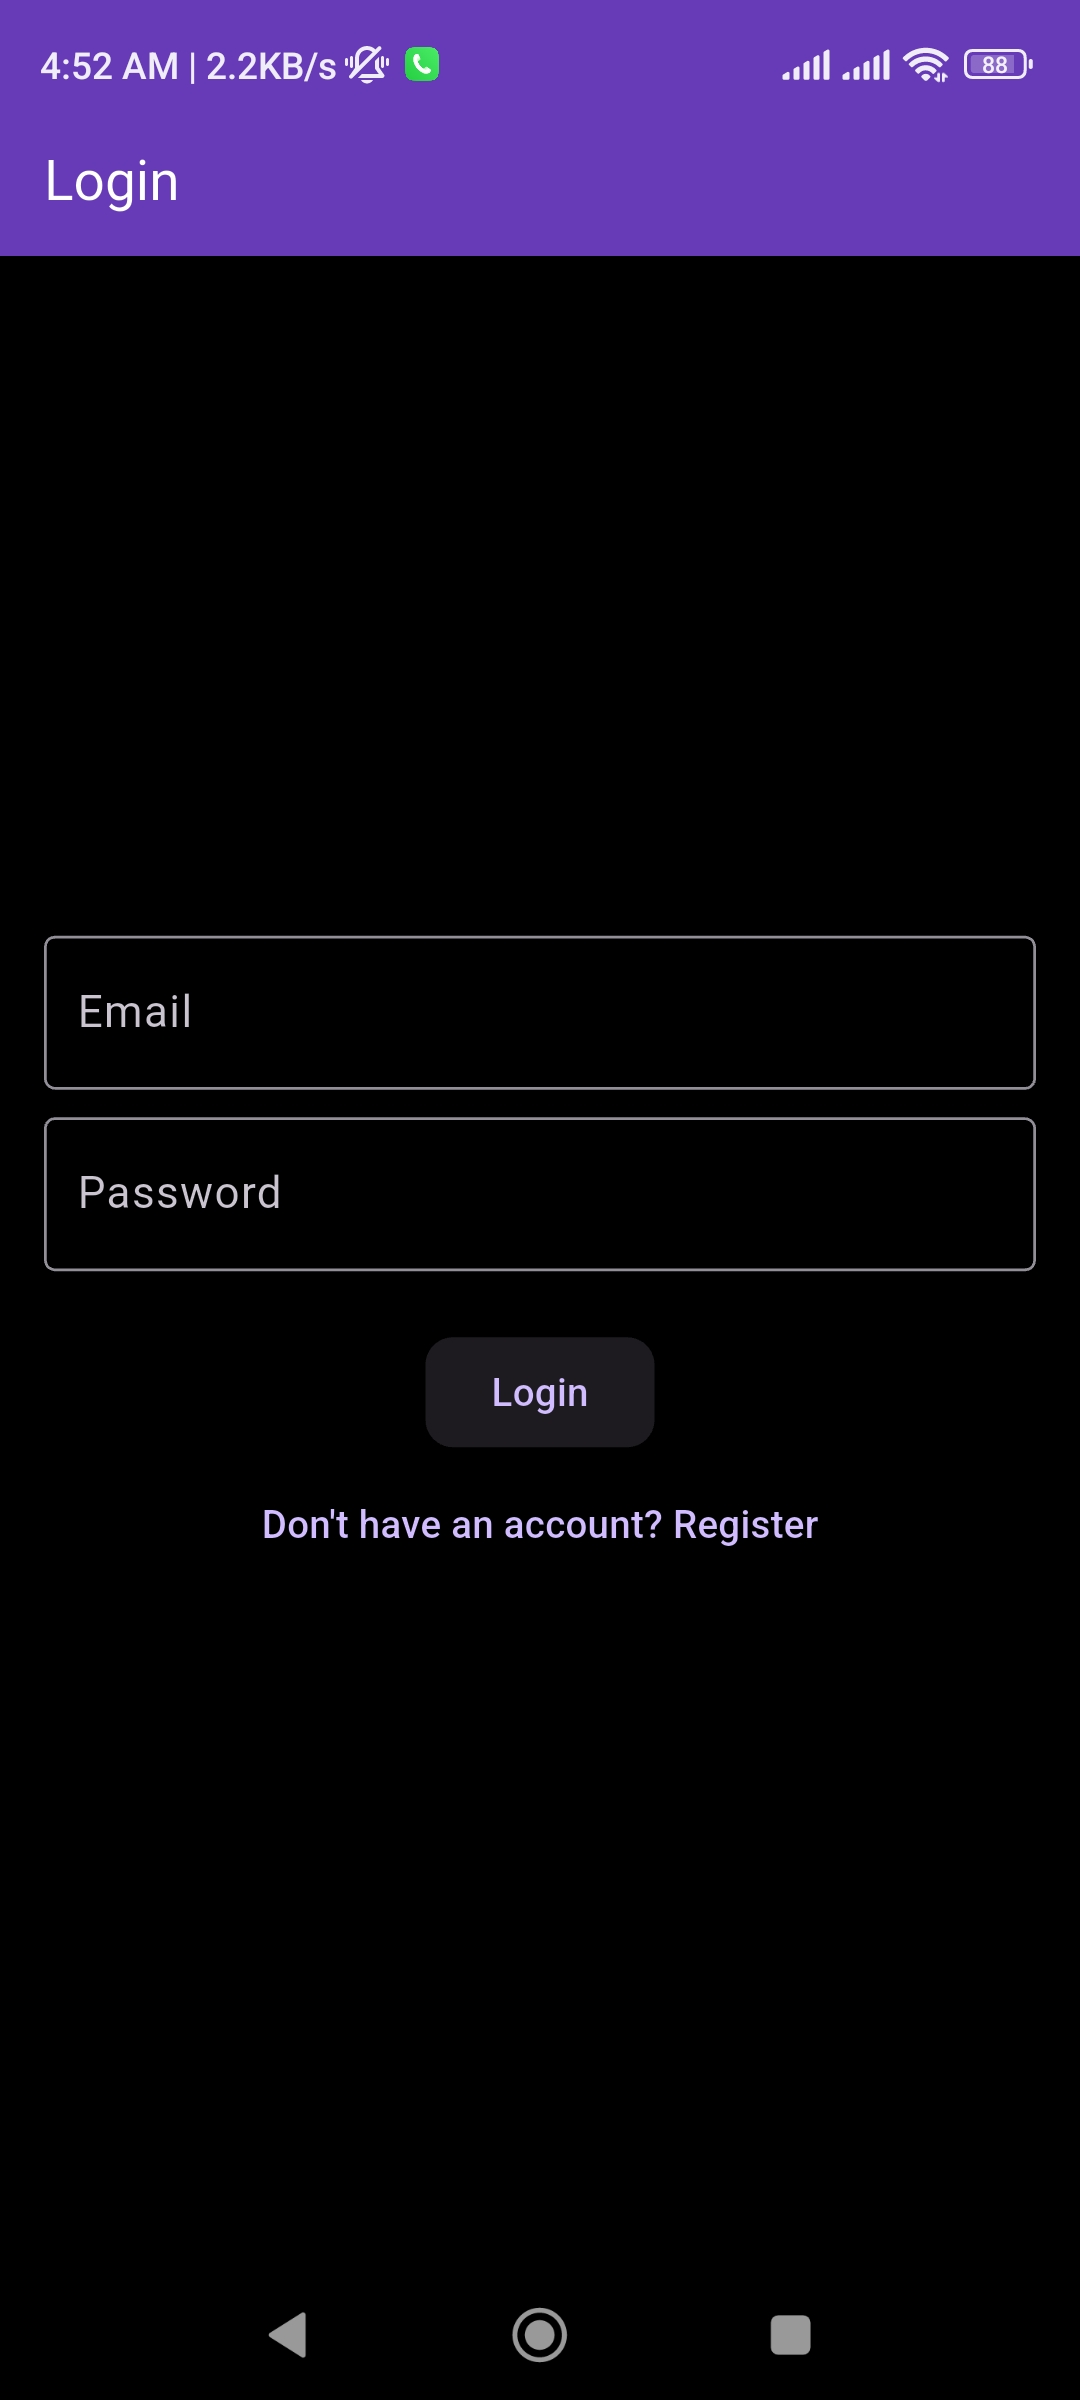
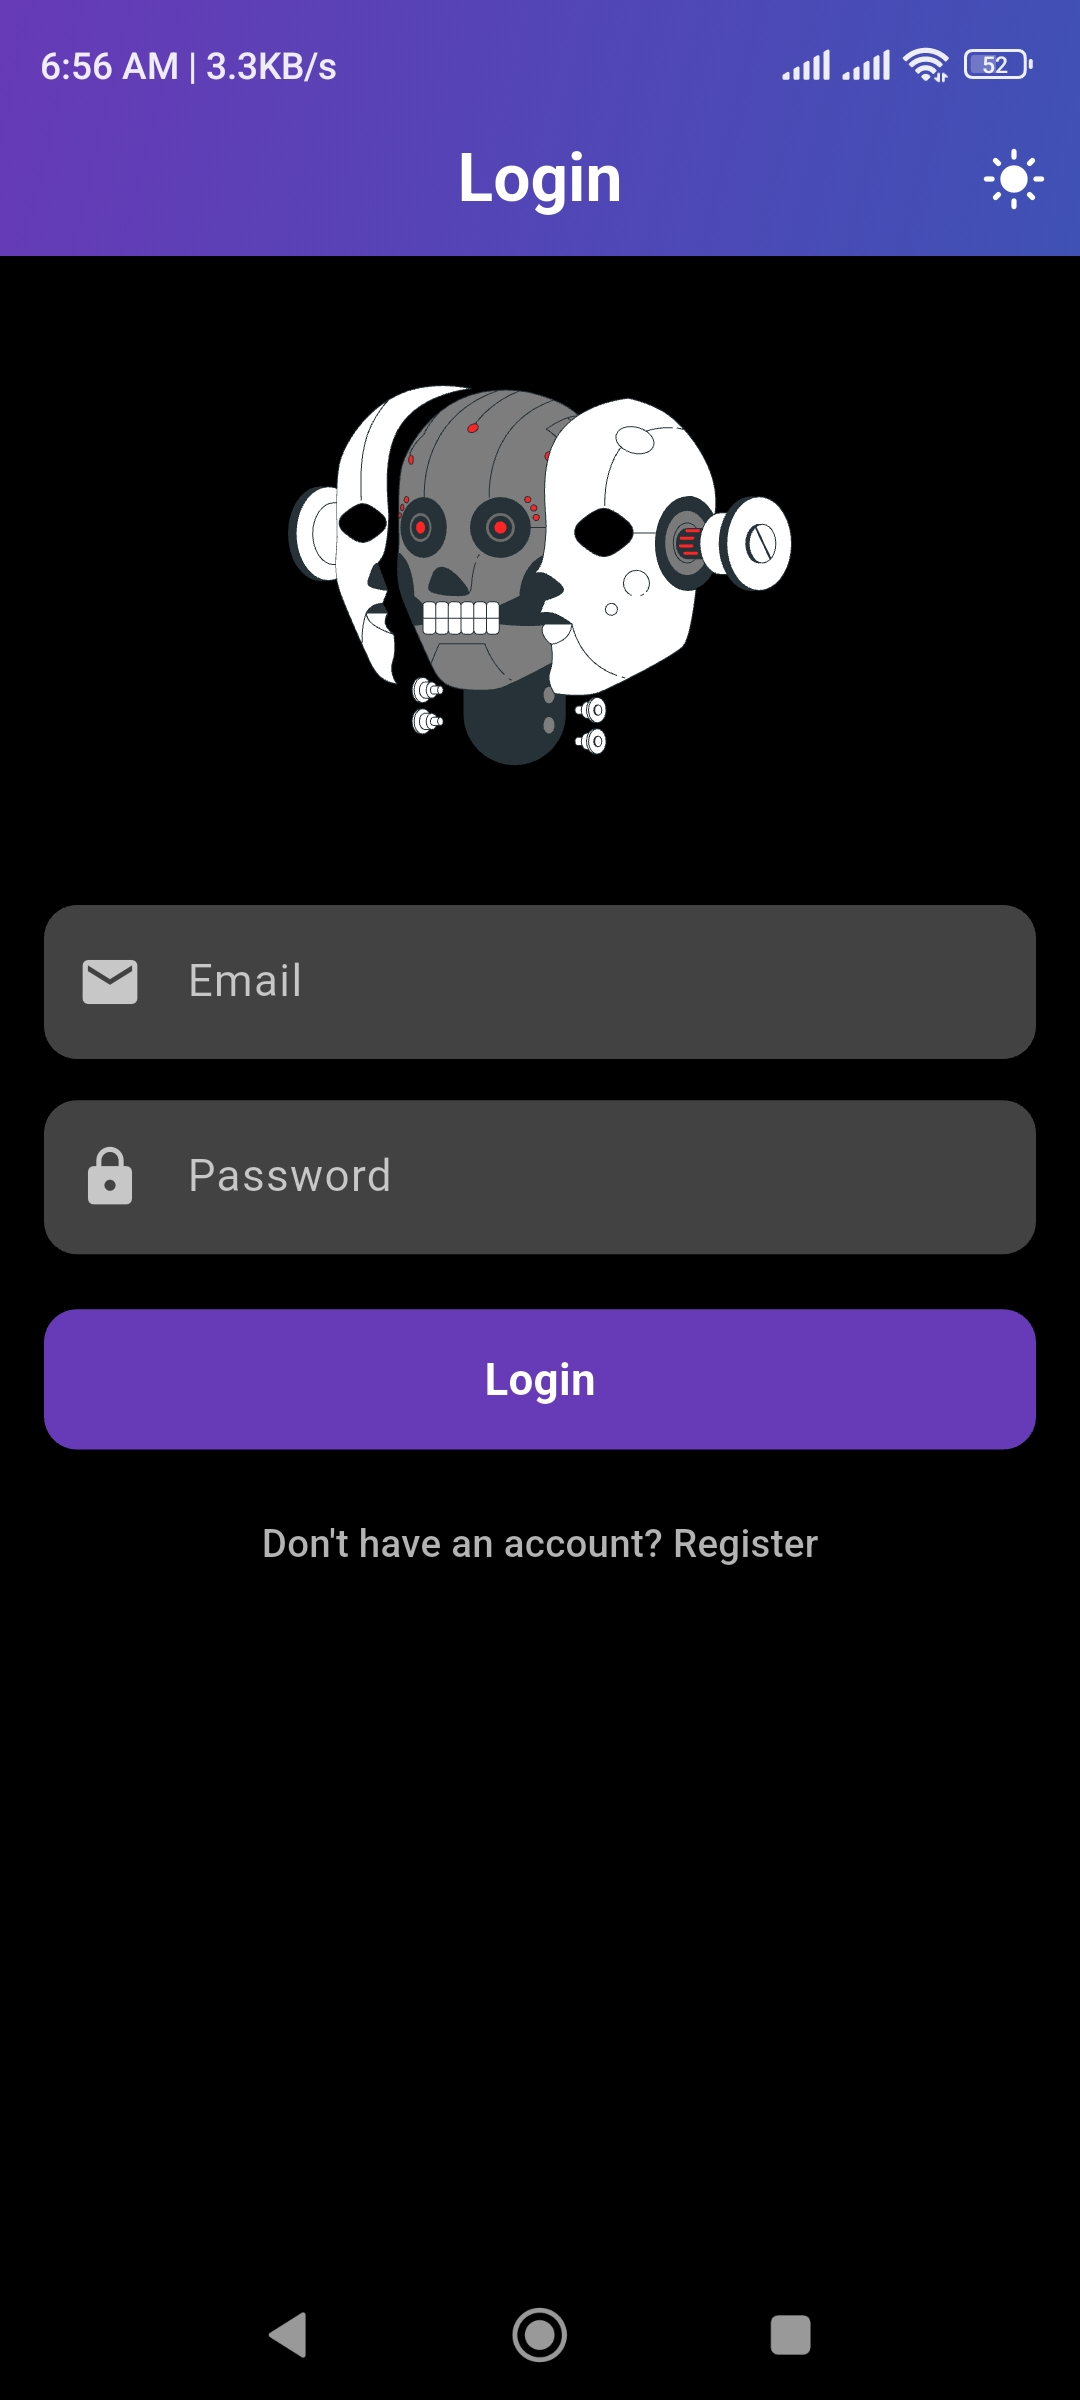
Updated ui & Android notification system added

diff --git a/lib/notification_service.dart b/lib/notification_service.dart
@@ -1,0 +1,182 @@
+import 'package:firebase_messaging/firebase_messaging.dart';
+import 'package:flutter/material.dart';
+import 'package:flutter_local_notifications/flutter_local_notifications.dart';
+
+// Define the background message handler at the top level
+@pragma('vm:entry-point')
+Future<void> _firebaseMessagingBackgroundHandler(RemoteMessage message) async {
+  // If you need to do any initialization here
+  print("Handling a background message: ${message.messageId}");
+  // You can't directly show notifications here as this runs in a separate isolate
+  // But Firebase will automatically create a notification on Android
+}
+
+class NotificationService {
+  // Singleton pattern
+  static final NotificationService _instance = NotificationService._internal();
+  factory NotificationService() => _instance;
+  NotificationService._internal();
+
+  final FirebaseMessaging _fcm = FirebaseMessaging.instance;
+  final FlutterLocalNotificationsPlugin _flutterLocalNotificationsPlugin = 
+      FlutterLocalNotificationsPlugin();
+  
+  // Initialize notification channels and request permissions
+  Future<void> init() async {
+    // Set the background messaging handler
+    FirebaseMessaging.onBackgroundMessage(_firebaseMessagingBackgroundHandler);
+    
+    // Request permission for iOS devices
+    await _fcm.requestPermission(
+      alert: true,
+      badge: true,
+      sound: true,
+    );
+
+    // Initialize local notifications
+    const AndroidInitializationSettings initializationSettingsAndroid =
+        AndroidInitializationSettings('@mipmap/ic_launcher');
+        
+    const DarwinInitializationSettings initializationSettingsIOS =
+        DarwinInitializationSettings(
+      requestSoundPermission: true,
+      requestBadgePermission: true,
+      requestAlertPermission: true,
+    );
+
+    const InitializationSettings initializationSettings = InitializationSettings(
+      android: initializationSettingsAndroid,
+      iOS: initializationSettingsIOS,
+    );
+
+    await _flutterLocalNotificationsPlugin.initialize(
+      initializationSettings,
+      onDidReceiveNotificationResponse: _onNotificationTapped,
+    );
+
+    // Create high importance notification channel for Android
+    await _createNotificationChannel();
+
+    // Handle FCM messages when app is in foreground
+    FirebaseMessaging.onMessage.listen(_handleForegroundMessage);
+
+    // Get FCM token
+    String? token = await _fcm.getToken();
+    print("FCM Token: $token");
+    
+    // Listen for token refresh
+    _fcm.onTokenRefresh.listen((newToken) {
+      print("FCM Token refreshed: $newToken");
+      // Here you can update the token in your database
+    });
+    
+    // Check if app was opened from a notification when app was terminated
+    RemoteMessage? initialMessage = await FirebaseMessaging.instance.getInitialMessage();
+    if (initialMessage != null) {
+      print("App opened from terminated state with message: ${initialMessage.notification?.title}");
+      // Handle the initial message - you could navigate to a specific screen based on the payload
+    }
+    
+    // Handle notification click when app is in background but not terminated
+    FirebaseMessaging.onMessageOpenedApp.listen((RemoteMessage message) {
+      print("onMessageOpenedApp: ${message.notification?.title}");
+      // Handle the message - you could navigate to a specific screen based on the payload
+    });
+  }
+
+  // Create notification channel for Android
+  Future<void> _createNotificationChannel() async {
+    const AndroidNotificationChannel channel = AndroidNotificationChannel(
+      'high_importance_channel',
+      'High Importance Notifications',
+      description: 'This channel is used for important notifications.',
+      importance: Importance.high,
+    );
+
+    await _flutterLocalNotificationsPlugin
+        .resolvePlatformSpecificImplementation<
+            AndroidFlutterLocalNotificationsPlugin>()
+        ?.createNotificationChannel(channel);
+  }
+
+  // Handle FCM messages when app is in foreground
+  void _handleForegroundMessage(RemoteMessage message) {
+    print('Got a message whilst in the foreground!');
+    print('Message data: ${message.data}');
+
+    if (message.notification != null) {
+      print('Message also contained a notification: ${message.notification}');
+      _showLocalNotification(message);
+    }
+  }
+
+  // Show local notification
+  Future<void> _showLocalNotification(RemoteMessage message) async {
+    RemoteNotification? notification = message.notification;
+    AndroidNotification? android = message.notification?.android;
+
+    if (notification != null && android != null) {
+      await _flutterLocalNotificationsPlugin.show(
+        notification.hashCode,
+        notification.title,
+        notification.body,
+        NotificationDetails(
+          android: AndroidNotificationDetails(
+            'high_importance_channel',
+            'High Importance Notifications',
+            channelDescription: 'This channel is used for important notifications.',
+            importance: Importance.high,
+            priority: Priority.high,
+            icon: '@mipmap/ic_launcher',
+          ),
+          iOS: const DarwinNotificationDetails(),
+        ),
+        payload: message.data['route'],
+      );
+    }
+  }
+
+  // Send a local notification
+  Future<void> showLocalNotification({
+    required int id,
+    required String title,
+    required String body,
+    String? payload,
+  }) async {
+    await _flutterLocalNotificationsPlugin.show(
+      id,
+      title,
+      body,
+      NotificationDetails(
+        android: const AndroidNotificationDetails(
+          'high_importance_channel',
+          'High Importance Notifications',
+          channelDescription: 'This channel is used for important notifications.',
+          importance: Importance.high,
+          priority: Priority.high,
+          icon: '@mipmap/ic_launcher',
+        ),
+        iOS: const DarwinNotificationDetails(),
+      ),
+      payload: payload,
+    );
+  }
+
+  // Handle notification tap
+  void _onNotificationTapped(NotificationResponse response) {
+    if (response.payload != null && response.payload!.isNotEmpty) {
+      print('Notification payload: ${response.payload}');
+      // You can navigate to a specific screen based on the payload
+    }
+  }
+
+  // Subscribe to a topic
+  Future<void> subscribeToTopic(String topic) async {
+    await _fcm.subscribeToTopic(topic);
+  }
+
+  // Unsubscribe from a topic
+  Future<void> unsubscribeFromTopic(String topic) async {
+    await _fcm.unsubscribeFromTopic(topic);
+  }
+}

diff --git a/lib/chat_screen.dart b/lib/chat_screen.dart
@@ -2,6 +2,7 @@ import 'package:flutter/material.dart';
 import 'auth_service.dart';
 import 'package:firebase_auth/firebase_auth.dart';
 import 'package:cloud_firestore/cloud_firestore.dart';
+import 'notification_service.dart'; // Import the notification service
 
 class ChatScreen extends StatefulWidget {
   final VoidCallback toggleTheme;
@@ -15,17 +16,32 @@ class _ChatScreenState extends State<ChatScreen> {
   final TextEditingController _messageController = TextEditingController();
   final FirebaseAuth _auth = FirebaseAuth.instance;
   final FirebaseFirestore _firestore = FirebaseFirestore.instance;
+  final NotificationService _notificationService = NotificationService(); // Initialize notification service
   Map<String, String> _userNames = {};
   final ScrollController _scrollController = ScrollController();
   bool _showScrollToBottomButton = false;
   bool _isNearBottom = true;
   final PageStorageKey _listViewKey = PageStorageKey('chatListView');
+  Stream<QuerySnapshot>? _messagesStream;
+  String? _lastMessageId;
 
   @override
   void initState() {
     super.initState();
     _loadUserNames();
     _scrollController.addListener(_onScroll);
+    
+    // Subscribe to chat room topic
+    _notificationService.subscribeToTopic('chatroom');
+    
+    // Initialize messages stream
+    _messagesStream = _firestore
+        .collection('messages')
+        .orderBy('timestamp', descending: false)
+        .snapshots();
+        
+    // Listen for new messages to show notifications when app is in foreground but user is not looking at chat
+    _listenForNewMessages();
   }
 
   @override
@@ -33,6 +49,39 @@ class _ChatScreenState extends State<ChatScreen> {
     _scrollController.removeListener(_onScroll);
     _scrollController.dispose();
     super.dispose();
+  }
+
+  // Listen for new messages to show notifications
+  void _listenForNewMessages() {
+    _messagesStream?.listen((snapshot) {
+      if (snapshot.docs.isNotEmpty) {
+        final lastDoc = snapshot.docs.last;
+        final lastMessageId = lastDoc.id;
+        
+        // If this is not the first load and we have a new message
+        if (_lastMessageId != null && _lastMessageId != lastMessageId) {
+          final data = lastDoc.data() as Map<String, dynamic>;
+          final sender = data['sender'] ?? 'Unknown';
+          final text = data['text'] ?? '';
+          
+          // Only show notification if the message is not from the current user
+          if (sender != _auth.currentUser?.email) {
+            String senderName = _getDisplayName(sender);
+            
+            // Show local notification
+            _notificationService.showLocalNotification(
+              id: lastMessageId.hashCode,
+              title: senderName,
+              body: text,
+              payload: 'chat',
+            );
+          }
+        }
+        
+        // Update the last message ID
+        _lastMessageId = lastMessageId;
+      }
+    });
   }
 
   // Load user names from Firestore
@@ -103,6 +152,17 @@ class _ChatScreenState extends State<ChatScreen> {
       _showScrollToBottomButton = !_isNearBottom;
     });
   }
+  
+  // Method to send a test notification
+  void _sendTestNotification() {
+    // Show a local notification for testing
+    _notificationService.showLocalNotification(
+      id: DateTime.now().millisecondsSinceEpoch.remainder(100000),
+      title: 'Test Notification',
+      body: 'This is a test notification from GTCS Chat!',
+      payload: 'test',
+    );
+  }
 
   @override
   Widget build(BuildContext context) {
@@ -134,6 +194,11 @@ class _ChatScreenState extends State<ChatScreen> {
         ),
         actions: [
           IconButton(
+            icon: Icon(Icons.notifications, color: Colors.white),
+            onPressed: _sendTestNotification,
+            tooltip: 'Test Notification',
+          ),
+          IconButton(
             icon: Icon(Icons.brightness_6, color: Colors.white),
             onPressed: widget.toggleTheme,
           ),
@@ -152,10 +217,7 @@ class _ChatScreenState extends State<ChatScreen> {
             children: [
               Expanded(
                 child: StreamBuilder<QuerySnapshot>(
-                  stream: _firestore
-                      .collection('messages')
-                      .orderBy('timestamp', descending: false)
-                      .snapshots(),
+                  stream: _messagesStream,
                   builder: (context, snapshot) {
                     if (!snapshot.hasData) {
                       return Center(child: CircularProgressIndicator());

diff --git a/lib/main.dart b/lib/main.dart
@@ -4,10 +4,15 @@ import 'package:shared_preferences/shared_preferences.dart';
 import 'auth_screen.dart';
 import 'chat_screen.dart';
 import 'package:firebase_auth/firebase_auth.dart';
+import 'notification_service.dart';
 
 void main() async {
   WidgetsFlutterBinding.ensureInitialized();
   await Firebase.initializeApp();
+  
+  // Initialize the notification service
+  await NotificationService().init();
+  
   runApp(MyApp());
 }
 
